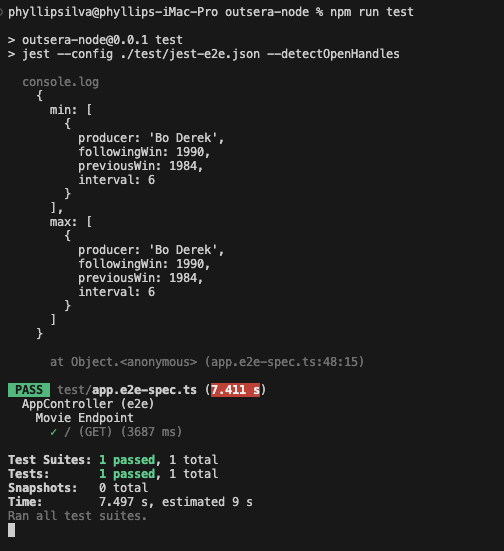
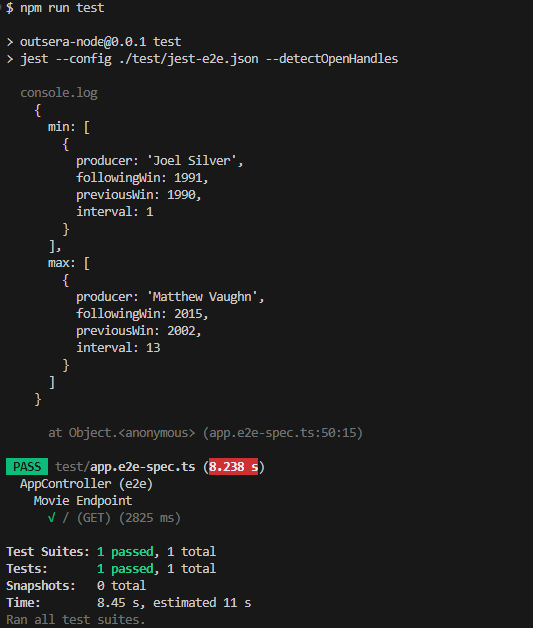
fix: readme

diff --git a/README.md b/README.md
@@ -1,15 +1,10 @@
 # Outsera Code test
 
-### System Requirements: 
+### System Requirements:
 Read the CSV file of movies and insert the data into a database when the application starts.
 
-### API Requirement: 
+### API Requirement:
 Get the producer with the longest interval between two consecutive awards and the one with the shortest time between two awards.
-
-### Important
-**The provided dataset does not contain two different producers who were winners. As such, with the provided dataset, the same producer will be shown as the winner for both the longest and shortest time intervals. To display different results, modify the `Movielist.csv` file in the `static` folder to include multiple winners with different intervals.**
-
-
 
 ## Project setup
 
@@ -32,11 +27,11 @@ The unit tests aim to validate the programming logic. To run them, use the follo
 ```bash
 npm run test:unit
 ```
-The output will be:   
+The output will be:  
 ![Image unit test](./images/image-unit-test.png)
 
 ## API
-As per the test requirements, only the endpoint for fetching results has been provided. No endpoints for adding, modifying, or deleting movies were included.  
+As per the test requirements, only the endpoint for fetching results has been provided. No endpoints for adding, modifying, or deleting movies were included.
 
 To start the server, execute:
 ```bash
@@ -55,18 +50,18 @@ The result with the provided dataset will be:
 {
     "min": [
         {
-            "producer": "Bo Derek",
-            "followingWin": 1990,
-            "previousWin": 1984,
-            "interval": 6
+            "producer": "Joel Silver",
+            "followingWin": 1991,
+            "previousWin": 1990,
+            "interval": 1
         }
     ],
     "max": [
         {
-            "producer": "Bo Derek",
-            "followingWin": 1990,
-            "previousWin": 1984,
-            "interval": 6
+            "producer": "Matthew Vaughn",
+            "followingWin": 2015,
+            "previousWin": 2002,
+            "interval": 13
         }
     ]
 }
